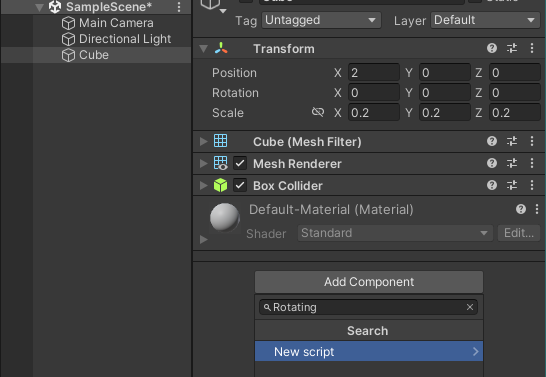
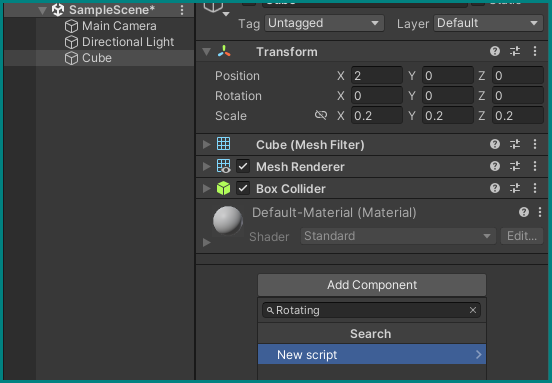
script shot

diff --git a/docs/page-1.md b/docs/page-1.md
@@ -78,6 +78,10 @@ You can keep playing around with the cube's Transform component to move it aroun
 
 All we did so far is not much different than using any basic 3D creation software. Where a game engine like Unity differs, is its ability of freely *scripting* the objects we place in scenes, using programming languages.
 
+Let's try this out by making a script that will constantly rotate our cube. The easiest way to do this is by clicking the __Add Component__ button at the bottom of the cube's Inspector and just starting to type the name of the script we want to create in the search field, in this case let's name it `Rotating`. It will automatically understand that we want to create a new script, so select that option and then confirm by pressing __Create and Add__.
+
+![Creating a script](page-1/12-making-script.png "Naming and creating a script")
+
 ``` csharp title="Rotating.cs"
 using UnityEngine;
 
